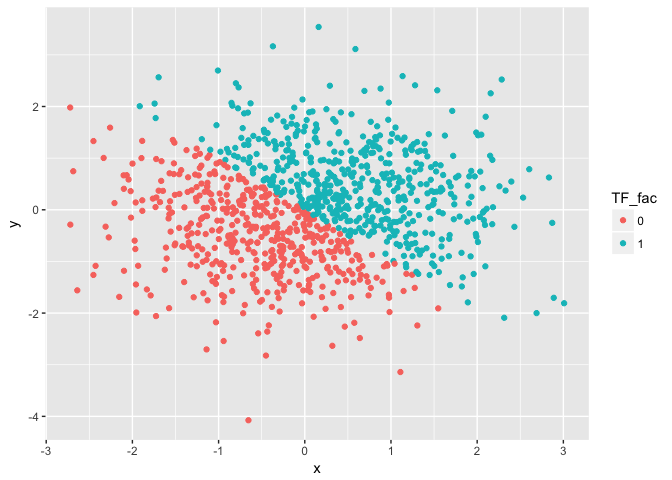
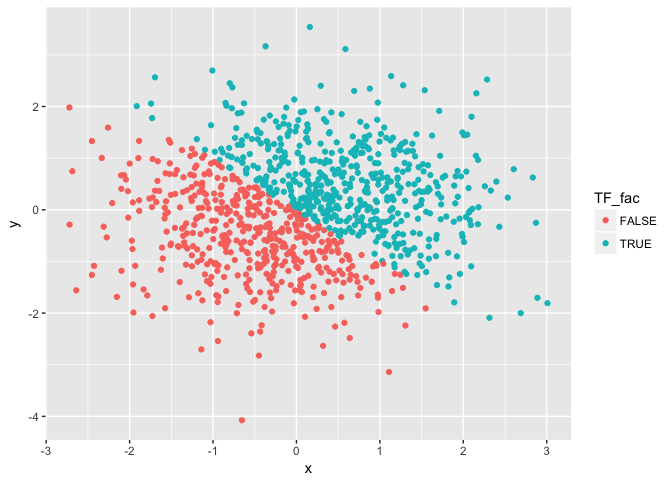
extra fixing

diff --git a/p8105_hw1_ms5533.md b/p8105_hw1_ms5533.md
@@ -96,16 +96,21 @@ prob2_df = tibble(
 )
 ```
 
-The data frame created has a size of 1000 data points. The mean of `x`
-is equal to **0.062** and the median of `x` is equal to **0.05014**.
-**530** data points of **1000** total are above 0 (530/1000).
+The data frame created has a size of 5000 data points, with 1000
+observations and 5 variables. The mean of `x` is equal to **0.062** and
+the median of `x` is equal to **0.05014**. **530** data points of
+**1000** total are above 0 (530/1000).
 
 ### Scatterplot of *y* vs *x* by logical variable
+
+![](p8105_hw1_ms5533_files/figure-gfm/yx_scatter_log-1.png)<!-- -->
 
 There is a clear distribution of values of `x+y > 0` and `x+y < 0` along
 the line `y = -x`.
 
 ### Scatterplot of *y* vs *x* by numeric variable
+
+![](p8105_hw1_ms5533_files/figure-gfm/yx_scatter_num-1.png)<!-- -->
 
 The same distribution is seen as above between points with values of
 `x+y > 0` and `x+y < 0` along the line `y = -x`. However, as they are
@@ -115,6 +120,8 @@ is a dichotomous variable, there are only two options, ‘1’ and ‘0’.
 Therefore the chart looks the same.
 
 ### Scatterplot of *y* vs *x* by factor variable
+
+![](p8105_hw1_ms5533_files/figure-gfm/yx_scatter_fac-1.png)<!-- -->
 
 The same distribution is seen as in the first plot, as ‘TRUE’ is coded
 as ‘1’ and ‘FALSE’ is coded as ‘0’.
